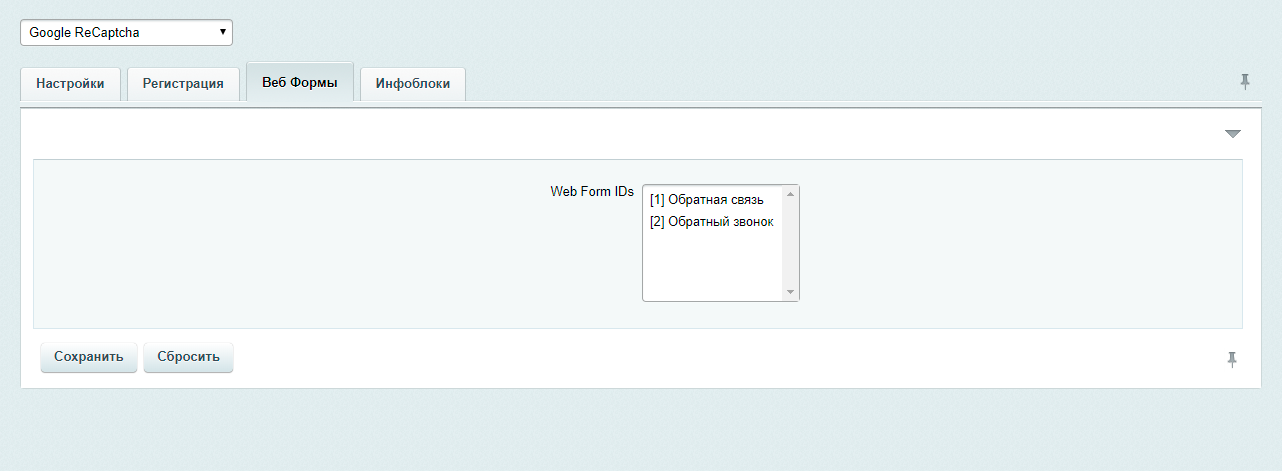
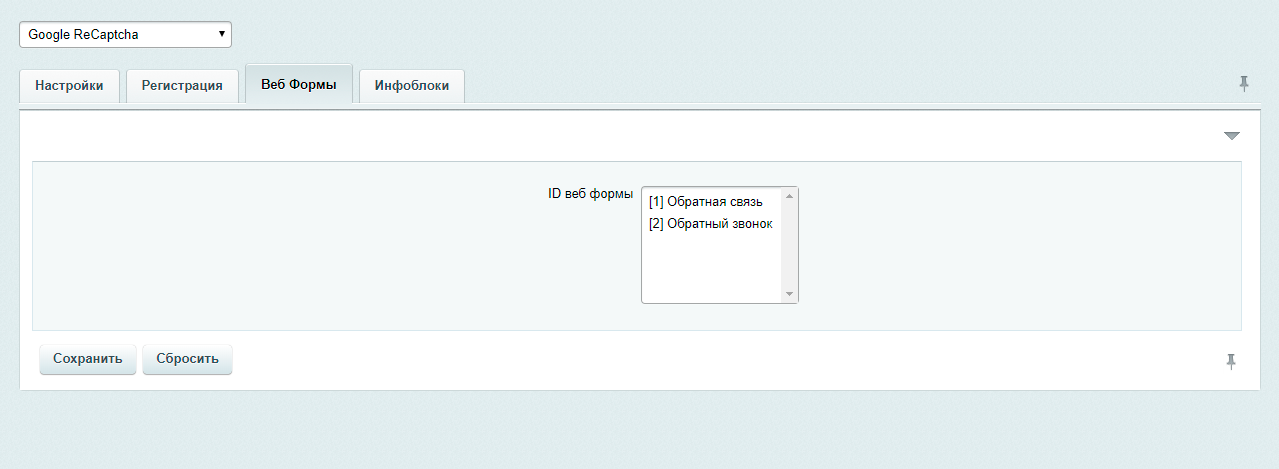
мелкие фиксы

diff --git a/b01110011.recaptcha/lib/B01110011ReCaptcha/BitrixCaptcha.php b/b01110011.recaptcha/lib/B01110011ReCaptcha/BitrixCaptcha.php
@@ -23,6 +23,8 @@ class BitrixCaptcha
         $siteKey = Option::get(M::id(), 'site_key');
         $hideBadge = Option::get(M::id(), 'hide_badge', 'Y');
 
+        if (empty($siteKey)) return true;
+
         $Asset->addString('<script src="https://www.google.com/recaptcha/api.js?render='. $siteKey .'"></script>');
         $Asset->addString('<script>window.recaptcha = { siteKey: "'. $siteKey .'", tokenLifeTime: 100 };</script>'); // время жизни токена в секундах (2 минуты максимальное время жизни токена)
         $Asset->addString('<script src="/bitrix/js/b01110011.recaptcha/script.js"></script>');
@@ -36,6 +38,9 @@ class BitrixCaptcha
      */
     public function initCheckSpam()
     {
+        $secretKey = Option::get(M::id(), 'secret_key');
+        if (empty($secretKey)) return true;
+
         $EventManager = EventManager::getInstance();
 
         $EventManager->addEventHandler('form', 'onBeforeResultAdd', ['B01110011ReCaptcha\BitrixCaptcha', 'checkWebForm']);

diff --git a/b01110011.recaptcha/lang/en/options.php b/b01110011.recaptcha/lang/en/options.php
@@ -13,7 +13,7 @@ $MESS[M::locPrefix() .'FIELD_SITE_KEY'] = 'Site key';
 $MESS[M::locPrefix() .'FIELD_SECRET_KEY'] = 'Secret key';
 $MESS[M::locPrefix() .'FIELD_PERMISSIBLE_SCORE'] = 'Permissible score';
 $MESS[M::locPrefix() .'FIELD_HIDE_BADGE'] = 'Hide badge';
-$MESS[M::locPrefix() .'FIELD_WEBFORM_IDS'] = 'Web Form IDs';
+$MESS[M::locPrefix() .'FIELD_WEBFORM_IDS'] = 'Web Form ID';
 $MESS[M::locPrefix() .'FIELD_REGISTRATION'] = 'Enable captcha';
 $MESS[M::locPrefix() .'FIELD_ERROR_MESSAGE'] = 'Captcha error message';
-$MESS[M::locPrefix() .'FIELD_IBLOCK_IDS'] = 'IBlock IDs';
+$MESS[M::locPrefix() .'FIELD_IBLOCK_IDS'] = 'IBlock ID';
